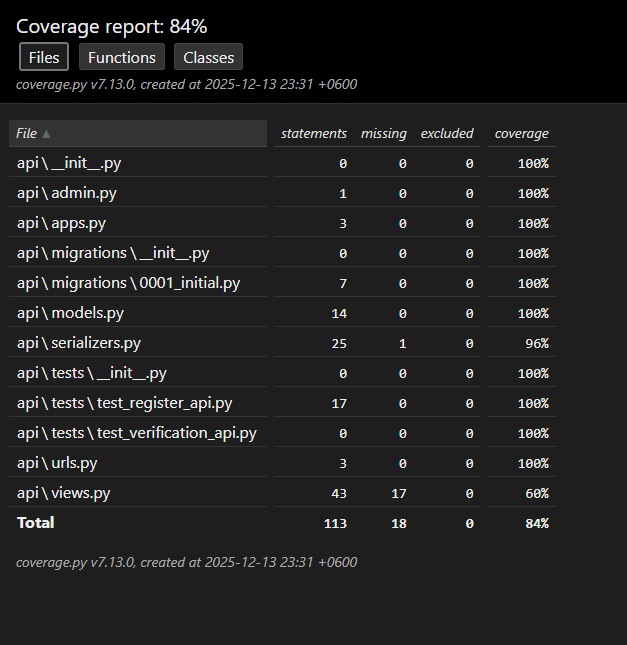
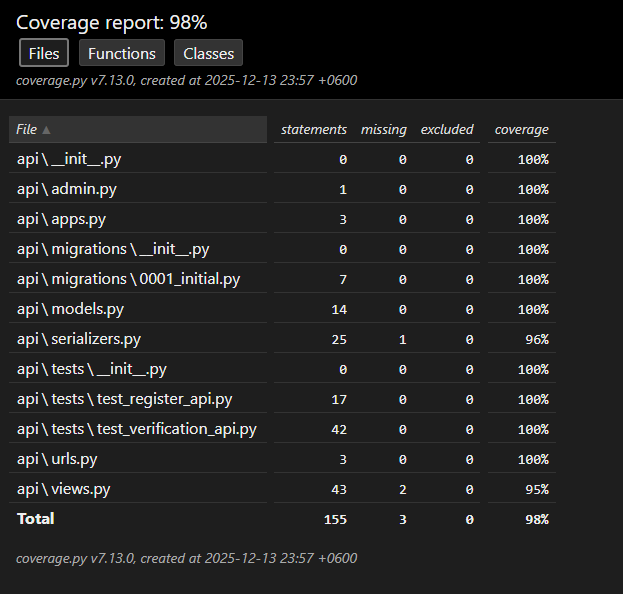
Updated registration & OTP verification API

diff --git a/backend/api/tests/test_verification_api.py b/backend/api/tests/test_verification_api.py
@@ -1,0 +1,125 @@
+import pytest
+from django.urls import reverse
+from django.utils import timezone
+from datetime import timedelta
+from django.contrib.auth.models import User
+from rest_framework.test import APIClient
+from api.models import EMAILOTP
+
+client = APIClient()
+
+
+@pytest.mark.django_db
+def test_verify_otp_success():
+    """
+    OTP is correct, not expired, not used
+    """
+    user = User.objects.create_user(
+        username="otpuser",
+        email="otpuser@test.com",
+        password="StrongPass123"
+    )
+
+    otp = EMAILOTP.objects.create(
+        user=user,
+        otp_code="123456",
+        expires_at=timezone.now() + timedelta(minutes=2)
+    )
+
+    payload = {
+        "email": user.email,
+        "otp": "123456"
+    }
+
+    response = client.post(reverse("verify-otp"), payload, format="json")
+
+    assert response.status_code == 200
+    assert response.data["detail"] == "OTP verified successfully."
+
+    otp.refresh_from_db()
+    assert otp.is_used is True
+
+
+@pytest.mark.django_db
+def test_verify_otp_invalid():
+    """
+    OTP is wrong
+    """
+    user = User.objects.create_user(
+        username="wrongotp",
+        email="wrongotp@test.com",
+        password="StrongPass123"
+    )
+
+    EMAILOTP.objects.create(
+        user=user,
+        otp_code="111111",
+        expires_at=timezone.now() + timedelta(minutes=2)
+    )
+
+    payload = {
+        "email": user.email,
+        "otp": "999999"
+    }
+
+    response = client.post(reverse("verify-otp"), payload, format="json")
+
+    assert response.status_code == 400
+    assert response.data["detail"] == "Invalid OTP."
+
+
+@pytest.mark.django_db
+def test_verify_otp_expired():
+    """
+    OTP expired (120 seconds over)
+    """
+    user = User.objects.create_user(
+        username="expiredotp",
+        email="expired@test.com",
+        password="StrongPass123"
+    )
+
+    EMAILOTP.objects.create(
+        user=user,
+        otp_code="222222",
+        expires_at=timezone.now() - timedelta(seconds=1)
+    )
+
+    payload = {
+        "email": user.email,
+        "otp": "222222"
+    }
+
+    response = client.post(reverse("verify-otp"), payload, format="json")
+
+    assert response.status_code == 400
+    assert response.data["detail"] == "OTP has expired."
+
+
+@pytest.mark.django_db
+def test_verify_otp_already_used():
+    """
+    OTP already verified once
+    """
+    user = User.objects.create_user(
+        username="usedotp",
+        email="used@test.com",
+        password="StrongPass123"
+    )
+
+    EMAILOTP.objects.create(
+        user=user,
+        otp_code="333333",
+        is_used=True,
+        expires_at=timezone.now() + timedelta(minutes=2)
+    )
+
+    payload = {
+        "email": user.email,
+        "otp": "333333"
+    }
+
+    response = client.post(reverse("verify-otp"), payload, format="json")
+
+    assert response.status_code == 400
+    assert response.data["detail"] == "Invalid OTP."
